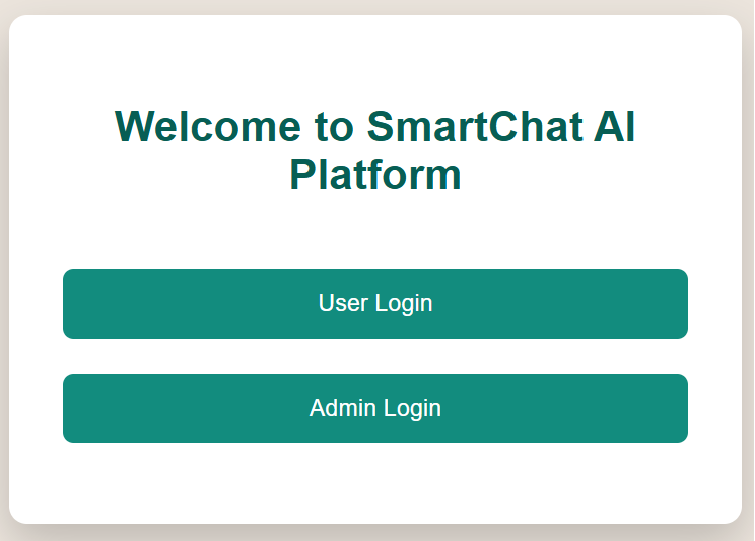
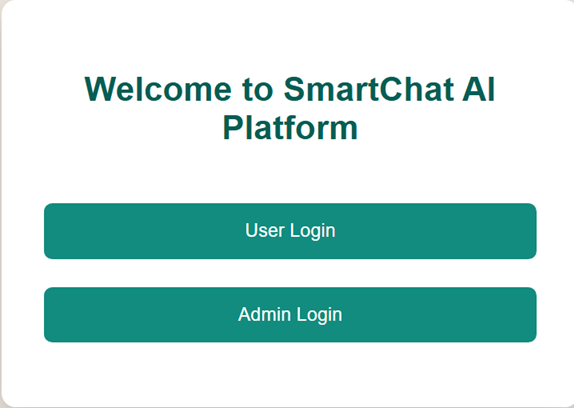
Update Docker setup documentation and compose configuration

diff --git a/README.md b/README.md
@@ -1,4 +1,3 @@
-<<<<<<< HEAD
 # SmartChat AI Platform
 
 A production-style AI chatbot platform built using **Rasa**, **FastAPI**, **PostgreSQL**, **Docker Compose**, and **Nginx**.
@@ -126,83 +125,126 @@ Authenticated and guest conversations are stored efficiently using either a regi
 
 ---
 
-# Screenshots
-
-## Login
-
-![Login](docs/images/login-page.png)
-
----
-
-## Chatbot
-
-<!--
-TODO: Re-enable the login page screenshot once it's updated.
-![Chatbot](docs/images/chatbot-ui.png)
--->
-
----
-
-## Admin Dashboard
-
-<!--
-TODO: Re-enable the login page screenshot once it's updated.
-![Admin](docs/images/admin-dashboard.png)
--->
-
----
-
-## File Manager
-
-<!--
-TODO: Re-enable the login page screenshot once it's updated.
-![Files](docs/images/file-management.png)
--->
-
----
-
 # Getting Started
 
-## Clone Repository
+---
+
+# Docker Setup
+
+Before starting the application, ensure that Docker and Docker Compose are installed and running on your system. This project is designed to run entirely inside Docker containers using **Docker Compose**.
+
+> **Note**
+>
+> This project is fully containerized using **Docker Compose**. All Python dependencies are installed and executed inside their respective Docker containers. A local Python virtual environment (`venv`) is **not required** to build or run the application.
+>
+> To get started:
+> 1. Configure the `.env` file.
+> 2. Create the required Docker volumes.
+> 3. Build and start the services using Docker Compose.
+>
+> This approach ensures a consistent development and deployment environment across Windows, Linux, and macOS.
+
+## Prerequisites
+
+- Docker Desktop (Windows/macOS) or Docker Engine (Linux)
+- Docker Compose (included with Docker Desktop)
+- Git
+
+Verify the installation:
+
+```bash
+docker --version
+docker compose version
+```
+
+## Clone the Repository
 
 ```bash
 git clone https://github.com/Keerthana-PMalode/SmartChat-AI-Platform.git
 cd SmartChat-AI-Platform
 ```
 
----
+## Configure Environment Variables
 
-## Configure Environment
+Create an environment file by copying the example configuration:
 
-Copy
-
-```
-.env.example
+```bash
+cp .env.example .env
 ```
 
-to
+or on Windows:
 
-```
-.env
-```
-
-Update
-
-```
-DATABASE_URL
-SECRET_KEY
-POSTGRES_USER
-POSTGRES_PASSWORD
-POSTGRES_DB
+```powershell
+copy .env.example .env
 ```
 
----
+Update the following values as required:
 
-## Start Containers
+```text
+DATABASE_URL=postgresql://chatbot:chatbot@postgres:5432/chatbot
+SECRET_KEY=change_this_to_a_long_random_secret
+
+POSTGRES_HOST=postgres
+POSTGRES_PORT=5432
+POSTGRES_USER=chatbot
+POSTGRES_PASSWORD=chatbot
+POSTGRES_DB=chatbot
+```
+
+> **Important:** Do not commit your `.env` file to GitHub. Only commit `.env.example`.
+
+## Create Docker Volumes
+
+The project uses persistent Docker volumes for PostgreSQL data and Rasa trained models.
+
+Create them before starting the application:
+
+```bash
+docker volume create chatbot-project_postgres_data
+docker volume create chatbot-project_rasa_models
+```
+
+Verify that the volumes exist:
+
+```bash
+docker volume ls
+```
+
+## Build and Start Containers
+
+Build and start all services using Docker Compose:
 
 ```bash
 docker compose up --build
 ```
+This command:
+- Builds custom service images
+- Pulls required base images from Docker Hub
+- Creates containers
+- Creates the Docker network
+- Starts all application services
+
+## Stop Containers
+
+Stop the running services:
+
+```bash
+docker compose down
+```
+This removes containers and the Docker Compose network. Docker volumes are preserved, so PostgreSQL data and Rasa models remain available.
+
+## Verify Running Containers
+
+```bash
+docker ps
+```
+Expected containers:
+- chatbot-project-nginx-1
+- chatbot-project-rasa-1
+- chatbot-project-rasa_sdk-1
+- chatbot-project-file_service-1
+- chatbot-project-auth-1
+- chatbot-project-postgres-1
 
 ---
 
@@ -214,8 +256,6 @@ docker compose up --build
 | Auth API | http://localhost:8000 |
 | File API | http://localhost:8001 |
 | Rasa API | http://localhost:5006 |
-
----
 
 ---
 
@@ -238,8 +278,6 @@ http://localhost:8081/login.html
 ```
 
 The login page should be displayed successfully.
-
----
 
 ## Authorization Service
 
@@ -273,8 +311,6 @@ From the Swagger UI, you can test endpoints such as:
 - User Administration
 - Chat History APIs
 
----
-
 ## File Service
 
 Verify the File Service by opening:
@@ -305,8 +341,6 @@ You can test:
 - Permission Management
 - Audit APIs
 
----
-
 ## Rasa Server
 
 Verify the Rasa server by opening:
@@ -322,8 +356,6 @@ http://localhost:5006/version
 ```
 
 The `/version` endpoint returns the installed Rasa version, confirming that the conversational AI server is operational.
-
----
 
 ## Running Containers
 
@@ -345,6 +377,41 @@ A successful deployment should show containers similar to:
 See the deployment screenshot below.
 
 ![Docker Containers](docs/images/docker-ps.png)
+
+---
+
+# Screenshots
+
+## Login
+
+![Login](docs/images/login-page.png)
+
+---
+
+## Chatbot
+
+<!--
+TODO: Re-enable the login page screenshot once it's updated.
+![Chatbot](docs/images/chatbot-ui.png)
+-->
+
+---
+
+## Admin Dashboard
+
+<!--
+TODO: Re-enable the login page screenshot once it's updated.
+![Admin](docs/images/admin-dashboard.png)
+-->
+
+---
+
+## File Manager
+
+<!--
+TODO: Re-enable the login page screenshot once it's updated.
+![Files](docs/images/file-management.png)
+-->
 
 ---
 
